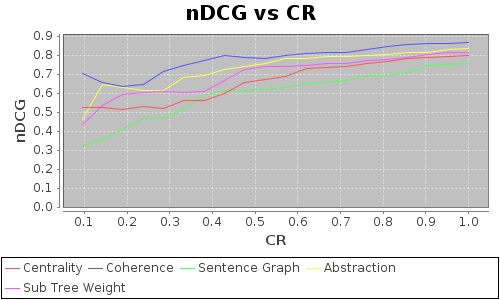
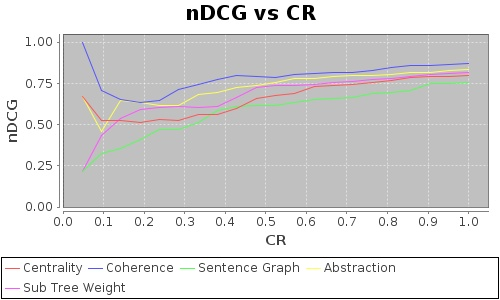
minor debugging

diff --git a/OntologySummarization/src/fr/inria/wimmics/explanation/evaluation/test/DCGSurveyInference1Test.java b/OntologySummarization/src/fr/inria/wimmics/explanation/evaluation/test/DCGSurveyInference1Test.java
@@ -44,7 +44,7 @@ import fr.inria.wimmics.explanation.evaluation.RankEntry;
 public class DCGSurveyInference1Test {
 	//files/evaluation/dcg/survey/inf1/results-survey31573.csv
 	
-	static int P_START_VALUE = 2;
+	static int P_START_VALUE = 1;
 	
 	static String QUESTION1_NAME = "q1";
 	static String QUESTION2_NAME = "q2";//context question
